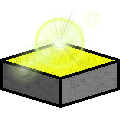
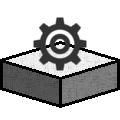
Boutons du haut (Home & Sound) + reglage de quelques pbm de dual bot

Changed region(s): [[0.05, 0.125, 0.975, 0.7], [0.775, 0.1, 0.825, 0.15]]

diff --git a/src/View/Jeu.java b/src/View/Jeu.java
@@ -43,10 +43,11 @@ public class Jeu {
 	protected static String typeBackground[]=  {"Main","P1","P2"};
 	protected static String typeCouleur [] = {"_ROUGE","_VERT","_GRIS"};
 	protected static String typeOrientation [] = {"_BOT","_LEFT","_RIGHT","_TOP"};
+	protected static String typeBoutonInterfaceMenu [] = {"Fond","Sound","Home"};
 	protected static String typeBouton [] = {"Activate","Break_r", "Call_P1","Call_P2", "Flashback", "Jump", "MoveForward", "Notify_r", "Pause", "Remember","tache","TurnLeft", "TurnRIght"};
 	protected static String typeCase [] = {"Normal_Case","Painted_Case_ROUGE", "Painted_Case_VERT","Teleporter_Case", "Illuminated_Case_Active", "Illuminated_Case_Inactive", "Event_Case", "Empty_Case", "Destination_Case", "Empile_Case"};
 	protected static String typeRobot[]={"pingouin_GRIS","requin_GRIS"};
-	protected static String typeBoutonInterface[]={typeRobot[identificateur_robot],"play","stop","rewind"};
+	protected static String typeBoutonInterface[]={"pingouin_GRIS","play","stop","rewind"};
 
 	protected Sprite monSprite = new Sprite();
 	protected Sprite monSpriteActionChoisie = new Sprite();
@@ -66,7 +67,10 @@ public class Jeu {
 	protected static final int TAILLE_MAX_P1 = 8;
 	protected static final int TAILLE_MAX_P2 = 8;
 
-	protected int indice_tele=1;
+	protected static int indiceInterface=-40;
+	protected static boolean deroule = false;
+	protected static boolean renroule = false;
+	protected static boolean IsPlaying = true;
 	protected boolean FirstLoop = true;
 	protected static Couleur couleur_active = Couleur.GRIS;
 	protected static float x_whale = -600;
@@ -186,12 +190,33 @@ public class Jeu {
 				this.delete_button(e,click);
 			}
 
+			Vector2i pos = Mouse.getPosition(Menu.app);
+			float x = pos.x;
+			float y = pos.y;
+			Iterator<String> keySetIterator = Jeu.liste_sprite.keySet().iterator();
+			while(keySetIterator.hasNext()){
 
+				String action = keySetIterator.next();
+				FloatRect rect = liste_sprite.get(action).getGlobalBounds();
+
+				if(action.equals("Fond")){
+					if(x>=rect.left && x<=rect.left+rect.width && y>=rect.top && y<=rect.top+rect.height){
+						deroule = true;
+						break;
+					}else{
+						renroule = true;
+						break;
+					}
+				}
+			}
 		}
+
 	}
 
 	public void updateRobot(int new_robot){
 		identificateur_robot = new_robot;
+		typeBoutonInterface[0] = typeRobot[identificateur_robot];
+		System.out.println(identificateur_robot);
 	}
 	/**
 	 *
@@ -259,6 +284,22 @@ public class Jeu {
 					controller.getNotificationStopRun();
 					break;
 				}
+				else if(action.equals("Home")){
+					System.out.println("Home");
+					new Theme(controller);
+					break;
+				}
+				else if(action.equals("Sound")){
+					System.out.println("Sound");
+					if(IsPlaying){
+						Menu.song.pause();
+						IsPlaying = false;
+					}else{
+						Menu.song.play();
+						IsPlaying = true;
+					}
+					break;
+				}
 			}
 		}
 
@@ -275,34 +316,10 @@ public class Jeu {
 				controller.setNotificationSwitchProgram(backgroundCurrent);
 				break;
 			}
-
 		}
-		//		int i=0;
-		//		for(Sprite s: liste_background){
-		//			FloatRect rect = s.getGlobalBounds();
-		//			if(x>=rect.left && x<=rect.left+rect.width && y>=rect.top && y<=rect.top+rect.height){
-		//				activate = typeBackground[i];
-		//				controller.setNotificationSwitchProgram(i);
-		//				break;
-		//			}
-		//			i++;
-		//		}
-
-		//		//Remove actions personnage Main
-		//		int cpt=0;
-		//		for(Sprite s: liste_main){
-		//			FloatRect rect = s.getGlobalBounds();
-		//			if(x>=rect.left && x<=rect.left+rect.width &&
-		//					y>=rect.top && y<=rect.top+rect.height){
-		//				System.out.println("CLICK "+cpt);
-		//				liste_main.remove(cpt);
-		//				r.get_Main().removeIndice(cpt);
-		//				break;
-		//			}
-		//			cpt++;
-		//		}
-
 	}
+
+
 	public void delete_button(Event e, Vector2f click){
 		float x = click.x;
 		float y = click.y;
@@ -323,7 +340,6 @@ public class Jeu {
 		int compteur=0;
 		for(Sprite s: list_remove){
 			FloatRect rect = s.getGlobalBounds();
-			System.out.println("test "+rect);
 			if(x>=rect.left && x<=rect.left+rect.width && y>=rect.top && y<=rect.top+rect.height){
 				if(list_remove.get(compteur)!=null){
 					controller.getNotificationRemoveToRobotList(compteur);
@@ -347,10 +363,10 @@ public class Jeu {
 	 * @param X la position en x du personnage
 	 * @param Y la position en y du personnage
 	 */
-	public void updateDrawPerso(int X, int Y, int H, orientation O, Couleur C){
+	public void updateDrawPerso(int X, int Y, int H, orientation O, Couleur C,int Robot){
 		Texture textureTemp;
 
-		String to_get = identificateur_robot+"_"+O.toString()+"_"+C.toString();
+		String to_get = Robot+"_"+O.toString()+"_"+C.toString();
 		textureTemp = textureRobot.get(to_get);
 
 		this.monSpritePerso.setTexture(textureTemp);
@@ -407,6 +423,32 @@ public class Jeu {
 			monSpriteBouton.setTexture(textureTemp);
 			monSpriteBouton.setPosition(700+50*i,540);
 			Jeu.liste_sprite.replace(couleurCurrent,monSpriteBouton);
+			Menu.app.draw(monSpriteBouton);
+			i++;
+		}
+
+		i = 0;
+		for(String boutonMenuCurrent : typeBoutonInterfaceMenu){
+
+			textureTemp = textureBoutonInterface.get(boutonMenuCurrent);
+			Sprite monSpriteBouton = liste_sprite.get(boutonMenuCurrent);
+			monSpriteBouton.setTexture(textureTemp);
+			if(deroule){
+				if(indiceInterface>=0){
+					deroule = false;
+				}else{
+					indiceInterface ++;
+				}
+			}
+			if(renroule && !deroule){
+				if(indiceInterface>-40){
+					indiceInterface --;
+				}else{
+					renroule = false;
+				}
+			}
+			monSpriteBouton.setPosition(400+50*i,indiceInterface);
+			Jeu.liste_sprite.replace(boutonMenuCurrent,monSpriteBouton);
 			Menu.app.draw(monSpriteBouton);
 			i++;
 		}
@@ -513,21 +555,37 @@ public class Jeu {
 	public void initTextureBoutonInterface(){
 		try{
 			Texture textureTemp;
+			Sprite monSpriteBouton;
 			for(String boutonCurrent : typeBoutonInterface){
 				textureTemp = new Texture();
 				textureTemp.loadFromFile(Paths.get("Images/Jeu/Boutons/"+boutonCurrent+".png"));
 				textureBoutonInterface.put(boutonCurrent,textureTemp);
 
-				Sprite monSpriteBouton = new Sprite();
+				monSpriteBouton = new Sprite();
 				liste_sprite.put(boutonCurrent, monSpriteBouton);
 			}
+			textureTemp = new Texture();
+			textureTemp.loadFromFile(Paths.get("Images/Jeu/Boutons/requin_GRIS.png"));
+			textureBoutonInterface.put("requin_GRIS",textureTemp);
+
+			monSpriteBouton = new Sprite();
+			liste_sprite.put("requin_GRIS", monSpriteBouton);
+
 			for(String couleurCurrent : typeCouleur){
 				textureTemp = new Texture();
 				textureTemp.loadFromFile(Paths.get("Images/Jeu/Boutons/tache"+couleurCurrent+".png"));
 				textureBoutonInterface.put("tache"+couleurCurrent,textureTemp);
 
-				Sprite monSpriteBouton = new Sprite();
+				monSpriteBouton = new Sprite();
 				liste_sprite.put(couleurCurrent, monSpriteBouton);
+			}
+			for(String boutonCurrent : typeBoutonInterfaceMenu){
+				textureTemp = new Texture();
+				textureTemp.loadFromFile(Paths.get("Images/Jeu/BoutonsInterface/Interface_"+boutonCurrent+".png"));
+				textureBoutonInterface.put(boutonCurrent,textureTemp);
+
+				monSpriteBouton = new Sprite();
+				liste_sprite.put(boutonCurrent, monSpriteBouton);
 			}
 		} catch (IOException e) {
 			e.printStackTrace();

diff --git a/src/observer/controller/Controller.java b/src/observer/controller/Controller.java
@@ -190,6 +190,7 @@ public class Controller implements int_Observer {
 		 * Receive a notification from view to change robot to robot[i] from current
 		 */
 		robotCurrent++;
+		System.out.println("zev "+World.currentWorld.number_robots());
 		if (robotCurrent >= World.currentWorld.number_robots()){
 			robotCurrent=0;
 		}
@@ -479,13 +480,15 @@ public class Controller implements int_Observer {
 			this.jeu.updateDrawISO(PosX, PosY, hauteur_max, class_name, info_suppl );
 
 			abstr_Robot [] listeRobot = World.currentWorld.get_liste_robot();
+			int i=0;
 			for(abstr_Robot robotCurrent : listeRobot){
 				XRob = robotCurrent.getCurrent_Case().get_coordonnees().get_x();
 				YRob = robotCurrent.getCurrent_Case().get_coordonnees().get_y();
 				//Si le pingouin est sur cette case, alors on l'affiche à la hauteur maximale de celle-ci
 				if ((XRob == X) && (YRob == Y)){
-					this.setNotificationDrawPerso(robotCurrent);
+					this.setNotificationDrawPerso(robotCurrent, i);
 				}
+				i++;
 			}
 		} catch (UnreachableCase e) {
 			// TODO Auto-generated catch block
@@ -494,7 +497,7 @@ public class Controller implements int_Observer {
 
 	}
 
-	public void setNotificationDrawPerso(abstr_Robot robot){
+	public void setNotificationDrawPerso(abstr_Robot robot, int num_robot){
 		abstr_Case Ma_Case = robot.getCurrent_Case();
 		int X = Ma_Case.get_coordonnees().get_x();
 		int Y = Ma_Case.get_coordonnees().get_y();
@@ -506,7 +509,7 @@ public class Controller implements int_Observer {
 		orientation orientation = robot.getOrientation();
 		Couleur couleur = robot.get_couleur();
 
-		this.jeu.updateDrawPerso(PosX, PosY, H, orientation, couleur);
+		this.jeu.updateDrawPerso(PosX, PosY, H, orientation, couleur, num_robot);
 	}
 
 

diff --git a/src/View/Menu.java b/src/View/Menu.java
@@ -3,8 +3,6 @@ package View;
 import java.io.IOException;
 import java.nio.file.Paths;
 
-import observer.controller.Controller;
-
 import org.jsfml.audio.Music;
 import org.jsfml.graphics.FloatRect;
 import org.jsfml.graphics.RenderWindow;
@@ -18,6 +16,8 @@ import org.jsfml.window.VideoMode;
 import org.jsfml.window.event.Event;
 import org.jsfml.window.event.Event.Type;
 
+import observer.controller.Controller;
+
 public class Menu {
 
 	protected static RenderWindow app = new RenderWindow(new VideoMode(Niveaux.WIDTH, Niveaux.HEIGHT),"Lightbot");
@@ -29,7 +29,7 @@ public class Menu {
 	private static final int WIDTH = 1200;
 	private static final int HEIGHT = 700;
 	protected static Controller controller;
-	protected Music song = new Music();
+	protected static Music song = new Music();
 
 	public Menu(Controller acontroller){
 		app.setVerticalSyncEnabled(true);
@@ -43,7 +43,7 @@ public class Menu {
 			e.printStackTrace();
 		}
 		Menu.reset_cam();
-		//		this.song.play();
+		this.song.play();
 		this.song.setLoop(true);
 		while(Menu.app.isOpen()){
 			Menu.app.clear();
